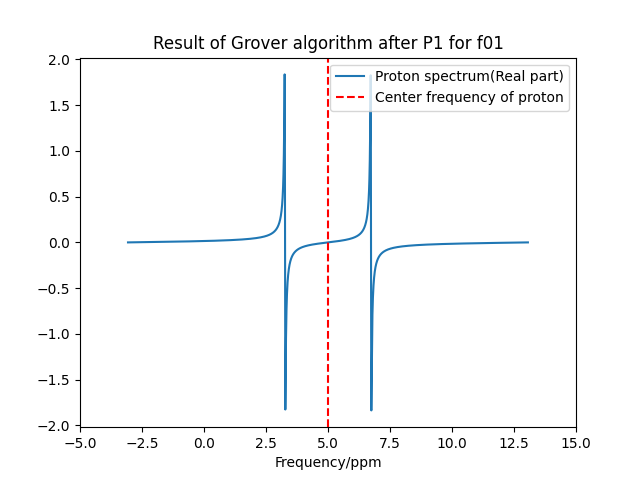
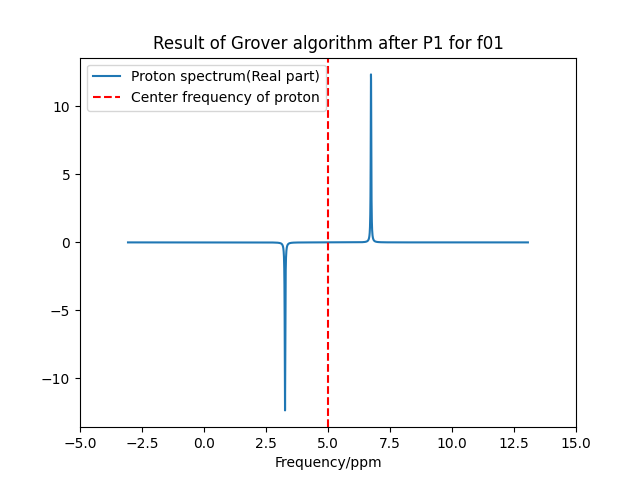
Get correct result of Grover and DJ!

diff --git a/example.py b/example.py
@@ -607,8 +607,7 @@ uf: A list of the state input
 def pseudo_pure_state(uf, add_CNOT=False, add_approx_CNOT=False):
     assert not (add_CNOT and add_approx_CNOT)
 
-
-    ufstring=str(uf[0])+str(uf[1])
+    ufstring = str(uf[0]) + str(uf[1])
 
     '''
     Initialize the chloroform instance
@@ -633,11 +632,11 @@ def pseudo_pure_state(uf, add_CNOT=False, add_approx_CNOT=False):
     NMRsample.evolve_all_pulse()
 
     if add_CNOT:
-        NMRsample.read_and_plot("Figure/Pseudo/{}/CNOTpseudoP0f{}".format(ufstring,ufstring))
+        NMRsample.read_and_plot("Figure/Pseudo/{}/CNOTpseudoP0f{}".format(ufstring, ufstring))
     elif add_approx_CNOT:
-        NMRsample.read_and_plot("Figure/Pseudo/{}/approxCNOTpseudoP0f{}".format(ufstring,ufstring))
+        NMRsample.read_and_plot("Figure/Pseudo/{}/approxCNOTpseudoP0f{}".format(ufstring, ufstring))
     else:
-        NMRsample.read_and_plot("Figure/Pseudo/{}/pseudoP0f{}".format(ufstring,ufstring))
+        NMRsample.read_and_plot("Figure/Pseudo/{}/pseudoP0f{}".format(ufstring, ufstring))
 
     density0 = NMRsample.get_density()
 
@@ -666,11 +665,11 @@ def pseudo_pure_state(uf, add_CNOT=False, add_approx_CNOT=False):
     NMRsample.evolve_all_pulse()
 
     if add_CNOT:
-        NMRsample.read_and_plot("Figure/Pseudo/{}/CNOTpseudoP1f{}".format(ufstring,ufstring))
+        NMRsample.read_and_plot("Figure/Pseudo/{}/CNOTpseudoP1f{}".format(ufstring, ufstring))
     elif add_approx_CNOT:
-        NMRsample.read_and_plot("Figure/Pseudo/{}/approxCNOTpseudoP1f{}".format(ufstring,ufstring))
+        NMRsample.read_and_plot("Figure/Pseudo/{}/approxCNOTpseudoP1f{}".format(ufstring, ufstring))
     else:
-        NMRsample.read_and_plot("Figure/Pseudo/{}/pseudoP1f{}".format(ufstring,ufstring))
+        NMRsample.read_and_plot("Figure/Pseudo/{}/pseudoP1f{}".format(ufstring, ufstring))
 
     # np.set_printoptions(precision=2)
     # print("P1 matrix")
@@ -706,11 +705,11 @@ def pseudo_pure_state(uf, add_CNOT=False, add_approx_CNOT=False):
     # print(NMRsample.get_pulse_unitary())
 
     if add_CNOT:
-        NMRsample.read_and_plot("Figure/Pseudo/{}/CNOTpseudoP2f{}".format(ufstring,ufstring))
+        NMRsample.read_and_plot("Figure/Pseudo/{}/CNOTpseudoP2f{}".format(ufstring, ufstring))
     elif add_approx_CNOT:
-        NMRsample.read_and_plot("Figure/Pseudo/{}/approxCNOTpseudoP2f{}".format(ufstring,ufstring))
+        NMRsample.read_and_plot("Figure/Pseudo/{}/approxCNOTpseudoP2f{}".format(ufstring, ufstring))
     else:
-        NMRsample.read_and_plot("Figure/Pseudo/{}/pseudoP2f{}".format(ufstring,ufstring))
+        NMRsample.read_and_plot("Figure/Pseudo/{}/pseudoP2f{}".format(ufstring, ufstring))
 
     density2 = NMRsample.get_density()
 
@@ -720,11 +719,11 @@ def pseudo_pure_state(uf, add_CNOT=False, add_approx_CNOT=False):
     new_NMRsample.set_density(pseudo_pure_density)
 
     if add_CNOT:
-        new_NMRsample.read_and_plot("Figure/Pseudo/{}/CNOTpseudoaveragef{}".format(ufstring,ufstring))
+        new_NMRsample.read_and_plot("Figure/Pseudo/{}/CNOTpseudoaveragef{}".format(ufstring, ufstring))
     elif add_approx_CNOT:
-        new_NMRsample.read_and_plot("Figure/Pseudo/{}/approxCNOTpseudoaveragef{}".format(ufstring,ufstring))
+        new_NMRsample.read_and_plot("Figure/Pseudo/{}/approxCNOTpseudoaveragef{}".format(ufstring, ufstring))
     else:
-        new_NMRsample.read_and_plot("Figure/Pseudo/{}/pseudoaveragef{}".format(ufstring,ufstring))
+        new_NMRsample.read_and_plot("Figure/Pseudo/{}/pseudoaveragef{}".format(ufstring, ufstring))
 
     print(pseudo_pure_density)
 
@@ -824,7 +823,7 @@ if __name__ == "__main__":
 
     # approx_CNOT()
 
-    pseudo_pure_state([0, 1])
+    pseudo_pure_state([1, 1], add_CNOT=True)
     # spectrum_only_a()
     # spectrum_only_b()
     # spectrum_only_c()

diff --git a/algorithm.py b/algorithm.py
@@ -527,6 +527,7 @@ def permute_DJ(uf):
 
 def permute_grover(db):
     grover = Grover()
+    grover.set_grover_step(1)
     grover.set_function(db)
 
     grover.construct_circuit()
@@ -588,11 +589,11 @@ def permute_grover(db):
     '''
     pseudo_sample.show_proton_spectrum_real(-5, 15, store=True,
                                             path="Figure/Grover/{}{}/Groverproton{}{}.png".format(
-                                            db[0], db[1], db[0], db[1]))
+                                                db[0], db[1], db[0], db[1]))
 
     pseudo_sample.show_carbon_spectrum_real(74, 80, store=True,
                                             path="Figure/Grover/{}{}/Grovercarbon{}{}.png".format(
-                                            db[0], db[1], db[0], db[1]))
+                                                db[0], db[1], db[0], db[1]))
 
 
 def DJ_print_pulse(uf):
@@ -613,7 +614,7 @@ def DJ_print_pulse(uf):
 
 
 if __name__ == "__main__":
-    #DJ_print_pulse([0, 0])
+    # DJ_print_pulse([0, 0])
 
-    #permute_DJ([1,1])
-    permute_grover([1,1])
+    # permute_DJ([1,1])
+    permute_grover([0, 0])
